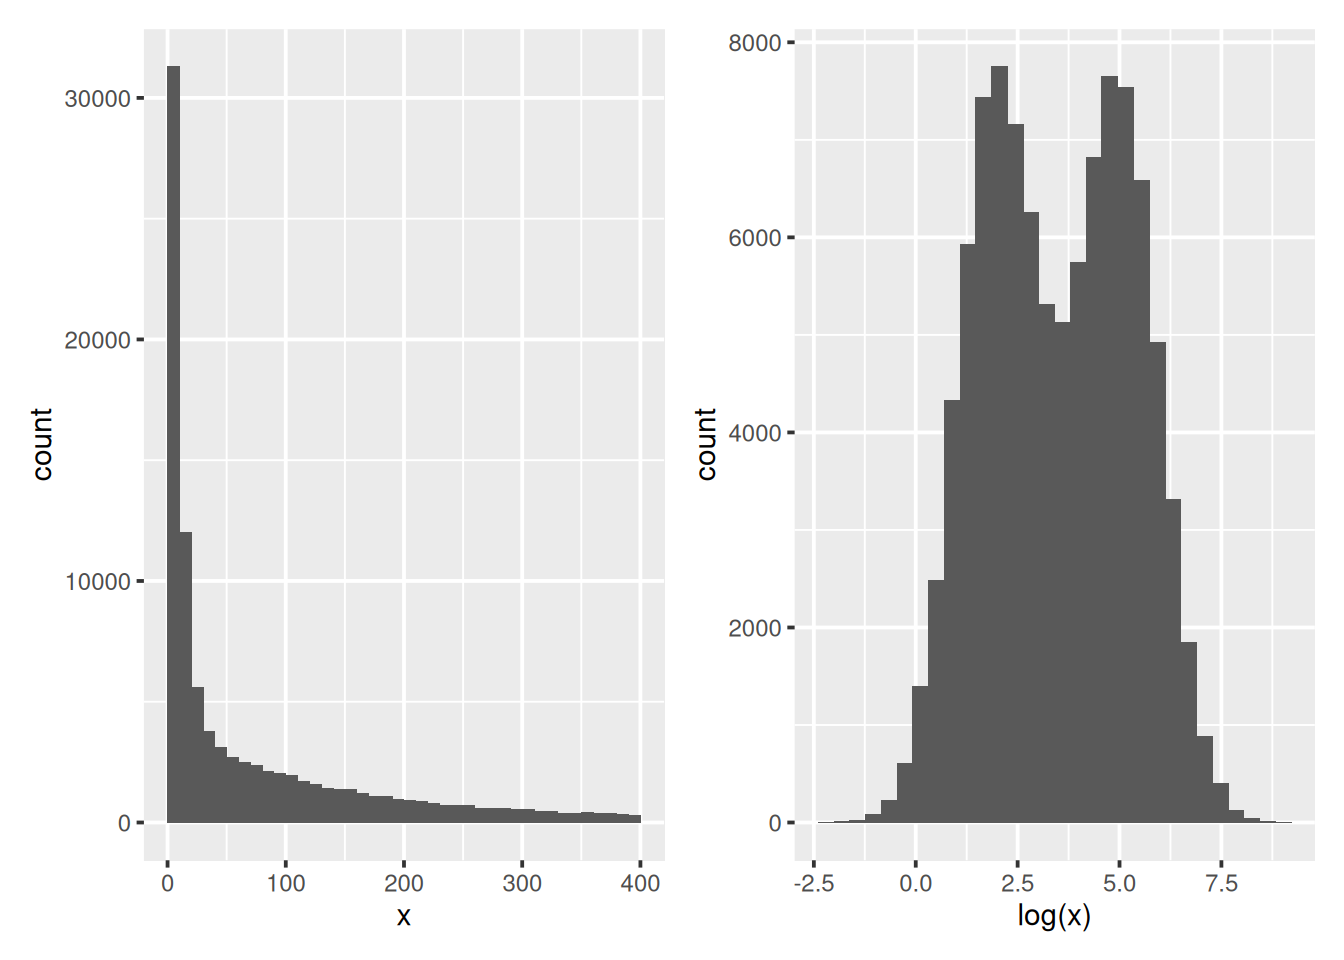
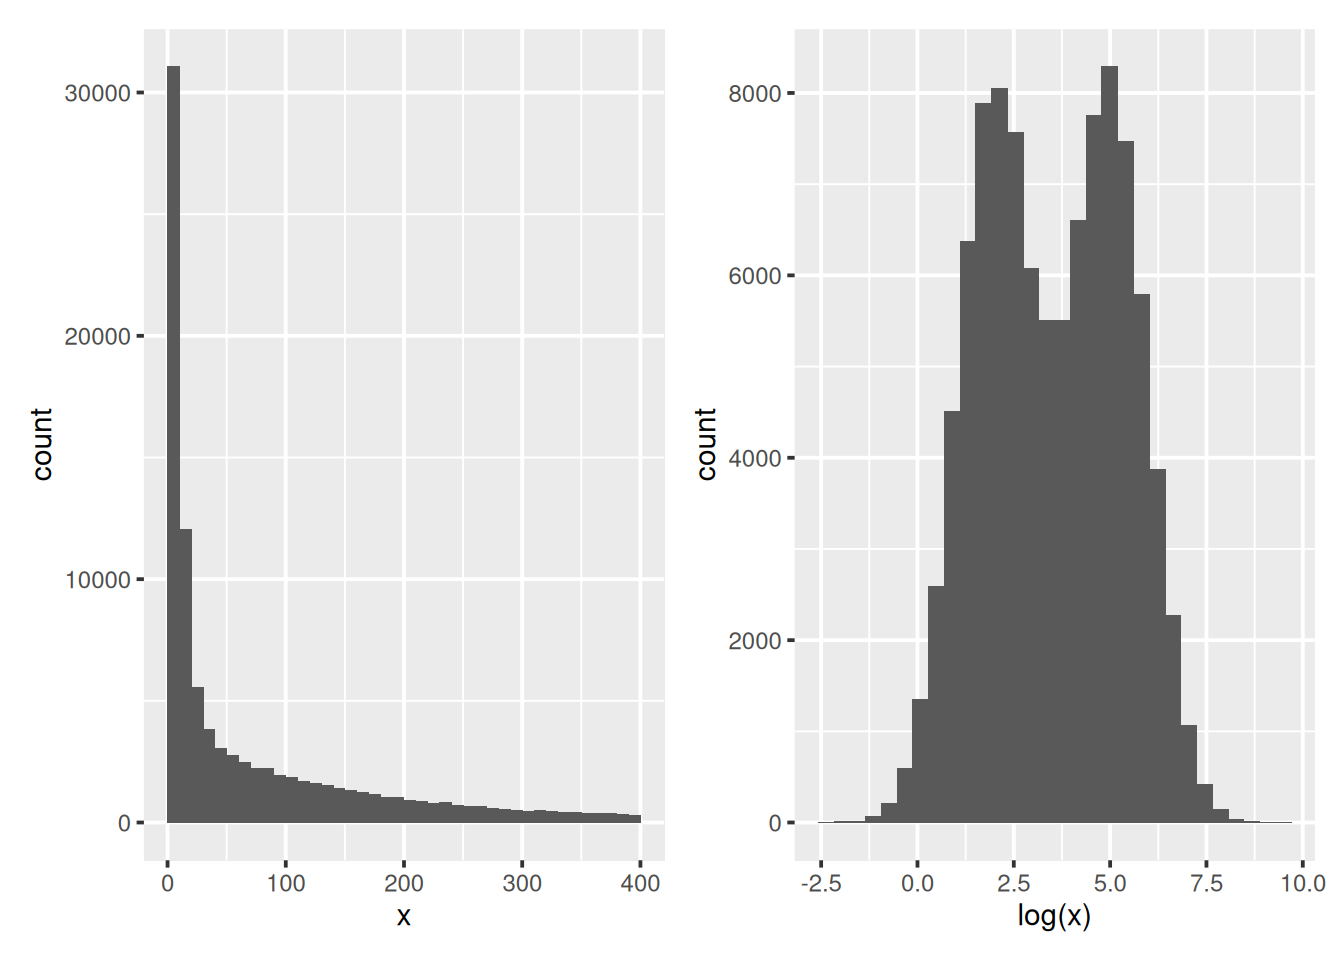
update book

diff --git a/docs/sec-biostrings.html b/docs/sec-biostrings.html
@@ -212,7 +212,7 @@ div.csl-indent {
 specialised for the manipulation of biological sequences.</p>
 <ul>
 <li>Learn about the fasta format format for biological sequences.</li>
-<li>Learn about the <code>*StingSet</code> classes.</li>
+<li>Learn about the <code>*StringSet</code> classes.</li>
 <li>Working with whole genomes.</li>
 <li>Find patterns in sequence data.</li>
 </ul>
@@ -736,7 +736,7 @@ substrings of a sequence. This can be done with the <code>subseq</code> sequence
 ► Question
 </p>
 <div class="question-body">
-<p>The start, end and with arguments can be vector of length &gt; 1
+<p>The start, end and width arguments can be vector of length &gt; 1
 themselves so as to generate sequences of different lengths. Create a
 new object that contains subsets of the first sequence of <code>dna</code> with,
 respectively nucleotides 1 to 1, 1 to 2, 1 to 3, …, 1 to 10.</p>

diff --git a/docs/sec-vis.html b/docs/sec-vis.html
@@ -949,7 +949,7 @@ of the data.</p>
 <span id="cb36-9"><a href="sec-vis.html#cb36-9" tabindex="-1"></a>p2 <span class="ot">&lt;-</span>  <span class="fu">ggplot</span>(sim, <span class="fu">aes</span>(<span class="fu">log</span>(x))) <span class="sc">+</span></span>
 <span id="cb36-10"><a href="sec-vis.html#cb36-10" tabindex="-1"></a>    <span class="fu">geom_histogram</span>(<span class="at">bins =</span> <span class="dv">30</span>)</span>
 <span id="cb36-11"><a href="sec-vis.html#cb36-11" tabindex="-1"></a>p1 <span class="sc">+</span> p2</span></code></pre></div>
-<pre><code>## Warning: Removed 8021 rows containing non-finite outside the scale range
+<pre><code>## Warning: Removed 8123 rows containing non-finite outside the scale range
 ## (`stat_bin()`).</code></pre>
 <div class="figure">
 <span style="display:block;" id="fig:sim"></span>
